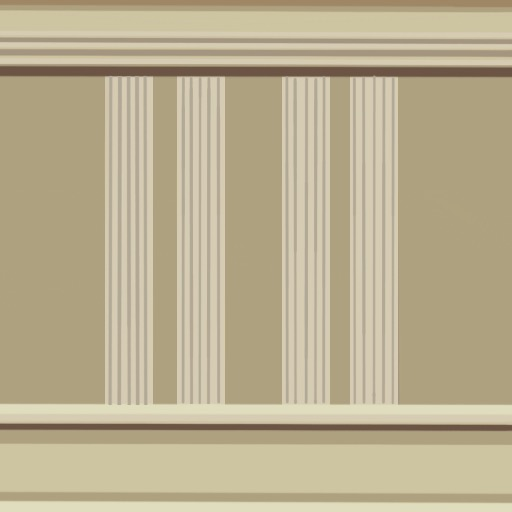
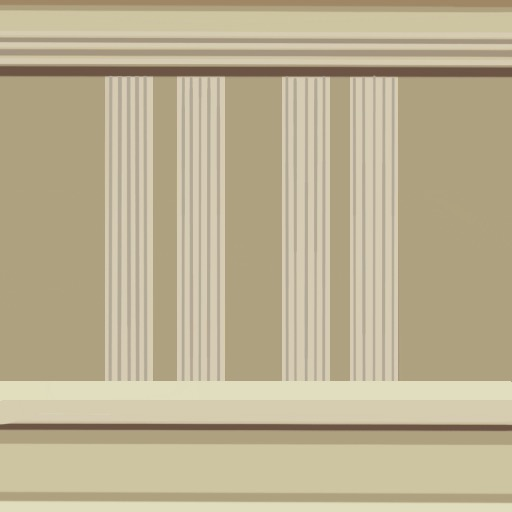
finish room textures

Changed region(s): [[0.0, 0.7188, 1.0, 0.8125]]

diff --git a/main-scene.js b/main-scene.js
@@ -36,7 +36,7 @@ window.Record_Player_Simulator = window.classes.Record_Player_Simulator =
             // Make some Material objects available to you:
             this.materials =
             {
-                phong_primary: context.get_instance( Phong_Shader ).material( Color.of(.8, .1, .2, 1)),
+                phong_primary: context.get_instance( Phong_Shader ).material( Color.of(.8, .15, .25, 1)),
                 phong_secondary: context.get_instance( Phong_Shader ).material( Color.of(.2, .9, .5, 1)),
                 grey_texture: context.get_instance( Phong_Shader ).material( Color.of( 0,0,0,1 ) , {ambient: 0.9, texture:context.get_instance( "assets/grey_texture.jpg", false )}),
                 gold_texture: context.get_instance( Phong_Shader ).material( Color.of( 0,0,0,1 ) , {ambient: 0.9, texture:context.get_instance( "assets/gold_texture.jpg", false )}),
@@ -46,6 +46,9 @@ window.Record_Player_Simulator = window.classes.Record_Player_Simulator =
                 clear: context.get_instance( Phong_Shader ).material( Color.of(0, 0, 0, 0) ),
                 record_tex2: context.get_instance( Phong_Shader).material(Color.of(0,0,0,1), {ambient: 1, specularity: 1.0, texture:context.get_instance("assets/record_tex2.jpg", false)}),
                 wall_tex: context.get_instance( Phong_Shader ).material(Color.of(0,0,0,1), {ambient: 1, specularity: 0.5, texture: context.get_instance("assets/wall_tex.jpg", false)}),
+                ceiling: context.get_instance( Phong_Shader ).material(Color.of(153/255,121/255,82/255,1), {ambient: 0.4, specularity: 0.5}),
+                floor: context.get_instance( Phong_Shader ).material(Color.of(92/255,60/255,45/255,1), {ambient: 0.4, specularity: 0.5}),
+                back_wall_tex: context.get_instance( Phong_Shader ).material(Color.of(0,0,0,1), {ambient: 1, specularity: 0.5, texture: context.get_instance("assets/back_wall_tex.jpg", false)}),
             }
 
             this.default = context.get_instance(Phong_Shader).material(Color.of(1,1,1,1));
@@ -127,13 +130,13 @@ window.Record_Player_Simulator = window.classes.Record_Player_Simulator =
             this.bodies.push(new Wall(this.shapes.cube, this.materials.wall_tex, Vec.of(1, 20, 50), false, this.aabb.cube, Vec.of(-1, 0, 0))
                        .emplace(Mat4.translation(Vec.of(30, 18, 45)), Vec.of(0, 0, 0), 0));
             // back wall
-            this.bodies.push(new Wall(this.shapes.cube, this.materials.phong_secondary, Vec.of(30, 20, 1), false, this.aabb.cube, Vec.of(0, 0, -1))
+            this.bodies.push(new Wall(this.shapes.cube, this.materials.back_wall_tex, Vec.of(30, 20, 1), false, this.aabb.cube, Vec.of(0, 0, -1))
                        .emplace(Mat4.translation(Vec.of(0, 18, 95)), Vec.of(0, 0, 0), 0));
             // floor
-            this.bodies.push(new Wall(this.shapes.cube, this.materials.phong_secondary, Vec.of(30, 1, 50), false, this.aabb.cube, Vec.of(0, 1, 0))
+            this.bodies.push(new Wall(this.shapes.cube, this.materials.floor, Vec.of(30, 1, 50), false, this.aabb.cube, Vec.of(0, 1, 0))
                        .emplace(Mat4.translation(Vec.of(0, -2, 45)), Vec.of(0, 0, 0), 0));
             // ceiling
-            this.bodies.push(new Wall(this.shapes.cube, this.materials.phong_secondary, Vec.of(30, 1, 50), false, this.aabb.cube, Vec.of(0, -1, 0))
+            this.bodies.push(new Wall(this.shapes.cube, this.materials.ceiling, Vec.of(30, 1, 50), false, this.aabb.cube, Vec.of(0, -1, 0))
                        .emplace(Mat4.translation(Vec.of(0, 38, 45)), Vec.of(0, 0, 0), 0));
         }
 
